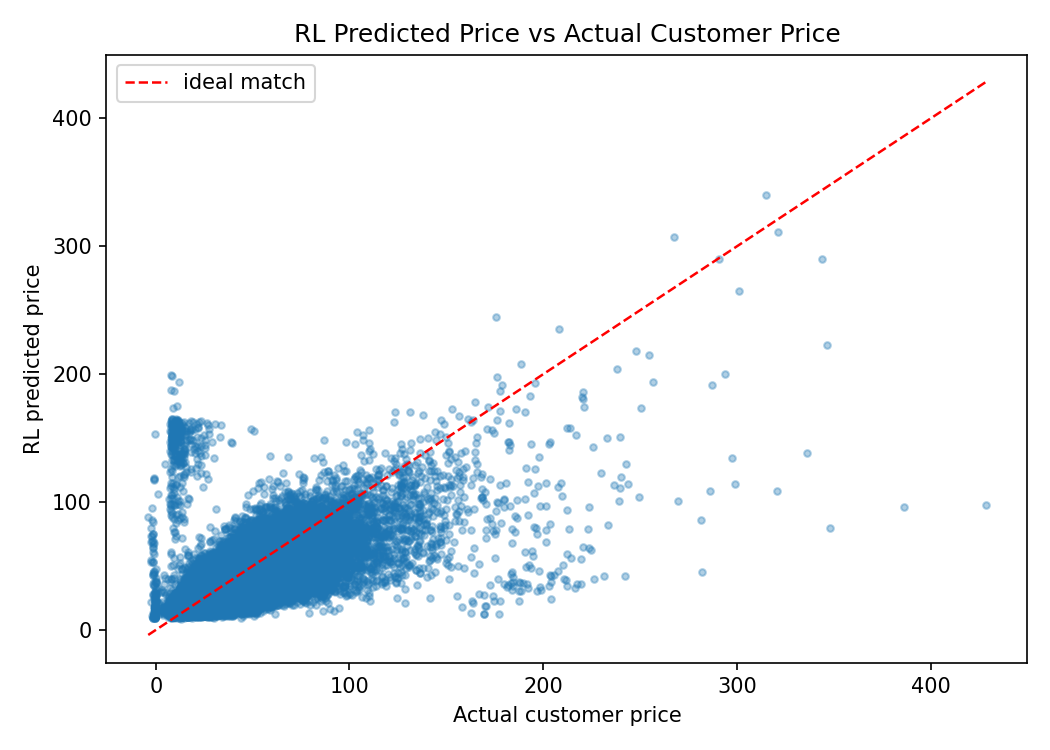
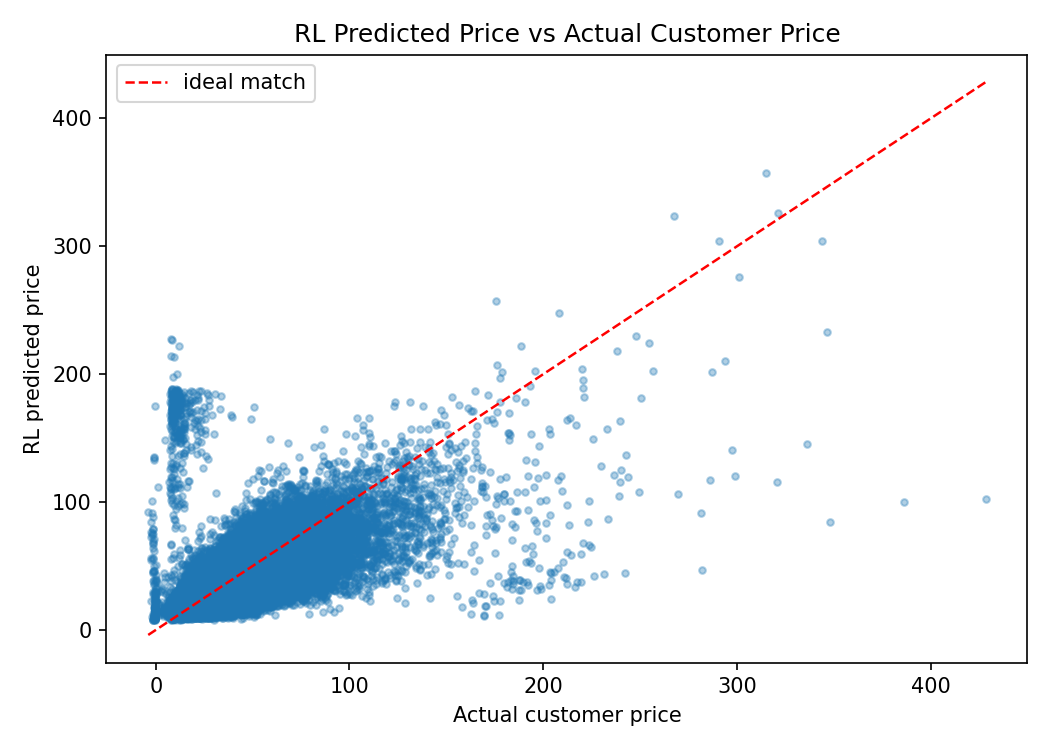
update

diff --git a/Core.py b/Core.py
@@ -417,6 +417,10 @@ class Core:
         self.profile_pool_multiplier = 2
         self.training_stable_window = 20
         self.training_stable_tol = 0.015
+        self.training_stable_trend_tol = 0.01
+        self.training_stable_min_mean = 0.15
+        self.training_stable_patience = 3
+        self.freeze_ppo_after_stabilization = True
         self.reward_convergence_window = 40
         self.reward_convergence_tol = 0.025
         self.reward_trend_tol = 0.01
@@ -716,11 +720,14 @@ class Core:
             f"train timesteps={train_timesteps} x {train_customers_per_step} rides, "
             f"eval timesteps={eval_timesteps} x {eval_customers_per_step} rides"
         )
+        self.training_logs = []
+        self.evaluation_logs = []
         
         print(">>> Training RL agent on-the-fly (early exploration prioritized)...")
         reward_history: List[float] = []
         stable_count = 0
         stability_notice_emitted = False
+        ppo_updates_frozen = False
         sampled_profile_rows: List[Dict[str, Any]] = []
         profile_limit_reached = False
 
@@ -738,7 +745,7 @@ class Core:
             rl_step = None
             if self.firm1_mode == "RL":
                 s_vec = self._build_rl_state(day_of_week=day_ctx.day_of_week, hour=hour, weather=day_ctx.weather)
-                action, s_ts, logits, val = self.firm1.agent.act(s_vec)
+                action, s_ts, logits, val = self.firm1.agent.act(s_vec, deterministic=ppo_updates_frozen)
                 self.firm1.apply_action(action, self.market)
                 rl_step = (action, s_ts, logits, val)
             elif self.firm1_mode == "heuristic":
@@ -758,11 +765,13 @@ class Core:
             reward = self._compute_rl_reward(m1, mean_gap)
             if self.firm1_mode == "RL" and rl_step is not None:
                 action, s_ts, logits, val = rl_step
-                self.firm1.agent.store(s_ts, action, float(reward), False, None, logits, val)
+                if not ppo_updates_frozen:
+                    self.firm1.agent.store(s_ts, action, float(reward), False, None, logits, val)
                 min_buf = int(max(1, self.ppo_min_buffer_for_update))
                 interval = int(max(1, self.ppo_update_interval))
                 should_update = (
-                    len(self.firm1.agent.buf) >= min_buf
+                    (not ppo_updates_frozen)
+                    and len(self.firm1.agent.buf) >= min_buf
                     and (((t + 1) % interval) == 0 or (t + 1) == int(train_timesteps))
                 )
                 ppo_metrics = (
@@ -774,17 +783,41 @@ class Core:
                 ppo_metrics = {"loss": 0.0}
                 
             reward_history.append(float(reward))
+            reward_std = 1.0
+            reward_delta = 1.0
+            reward_mean = float(reward)
             if len(reward_history) >= self.training_stable_window:
                 recent = reward_history[-self.training_stable_window:]
-                if float(np.std(recent)) <= self.training_stable_tol:
+                reward_std = float(np.std(recent))
+                reward_delta = float(abs(recent[-1] - recent[0]) / max(1, len(recent) - 1))
+                reward_mean = float(np.mean(recent))
+                stable_now = (
+                    reward_std <= self.training_stable_tol
+                    and reward_delta <= self.training_stable_trend_tol
+                    and reward_mean >= self.training_stable_min_mean
+                )
+                if stable_now:
                     stable_count += 1
                 else:
                     stable_count = 0
+            
+            if self.firm1_mode == "RL":
+                progress = float((t + 1) / max(1, train_timesteps))
+                reward_converged = stable_count >= self.training_stable_patience
+                self.firm1.configure_training_controls(
+                    progress=progress,
+                    reward_converged=reward_converged,
+                    reward_std=float(reward_std),
+                )
                     
             self.training_logs.append({
                 "batch": t,
                 "avg_reward": float(reward),
                 "loss": float(ppo_metrics.get("loss", 0.0)),
+                "reward_window_std": float(reward_std),
+                "reward_window_delta": float(reward_delta),
+                "reward_window_mean": float(reward_mean),
+                "reward_converged": bool(stable_count >= self.training_stable_patience),
             })
             
             if (t + 1) % max(1, train_timesteps // 10) == 0:
@@ -792,13 +825,21 @@ class Core:
                 moving_avg = float(np.mean(window)) if window else 0.0
                 print(f"  [train {t+1}/{train_timesteps}] reward={float(reward):.3f} moving_avg20={moving_avg:.3f}")
 
-            if stable_count >= 3:
+            if stable_count >= self.training_stable_patience:
                 if not stability_notice_emitted:
                     print(
-                        f">>> Reward stabilized at timestep {t+1}; "
-                        "continuing training to complete all requested timesteps."
+                        f">>> Reward stabilized at timestep {t+1} "
+                        f"(std={reward_std:.4f}, delta/day={reward_delta:.4f}, mean={reward_mean:.3f}); "
+                        "switching to deterministic actions and freezing PPO updates."
                     )
                     stability_notice_emitted = True
+                if (
+                    self.firm1_mode == "RL"
+                    and self.freeze_ppo_after_stabilization
+                    and not ppo_updates_frozen
+                ):
+                    ppo_updates_frozen = True
+                    self.firm1.agent.buf.clear()
 
             self.last_share = float(m1.share)
             self.last_revpr = float(m1.rev_per_request)
@@ -819,7 +860,7 @@ class Core:
             base = self.market.curr_market
             if self.firm1_mode == "RL":
                 s_vec = self._build_rl_state(day_of_week=day_ctx.day_of_week, hour=hour, weather=day_ctx.weather)
-                action, *_ = self.firm1.agent.act(s_vec)
+                action, *_ = self.firm1.agent.act(s_vec, deterministic=True)
                 self.firm1.apply_action(action, self.market)
             elif self.firm1_mode == "heuristic":
                 self.firm1.act(city_base=base.base_fare, city_pmin=base.per_minute, hour=hour, weather=day_ctx.weather)
@@ -842,6 +883,7 @@ class Core:
                 "heuristic_share": float(m2.share),
                 "rl_revenue": float(m1.rev_per_request),
                 "avg_reward": float(eval_reward),
+                "reward": float(eval_reward),
             })
             self.last_share = float(m1.share)
             self.last_revpr = float(m1.rev_per_request)
@@ -1185,7 +1227,7 @@ class Core:
             print("  training logs unavailable")
 
         if self.evaluation_logs:
-            ev = np.array([float(r["reward"]) for r in self.evaluation_logs], dtype=float)
+            ev = np.array([_extract_reward(r) for r in self.evaluation_logs], dtype=float)
             q = max(1, len(ev) // 4)
             early = float(np.mean(ev[:q]))
             late = float(np.mean(ev[-q:]))
@@ -1702,6 +1744,14 @@ def _write_distribution_csv(path: str, rows: List[Dict[str, Any]]) -> None:
         w.writeheader()
         w.writerows(out_rows)
 
+def _extract_reward(log_row: Dict[str, Any]) -> float:
+    """Backwards-compatible reward accessor for historical log schemas."""
+    if "reward" in log_row:
+        return float(log_row["reward"])
+    if "avg_reward" in log_row:
+        return float(log_row["avg_reward"])
+    raise KeyError("reward")
+
 
 def _plot_reports(
     rows: List[Dict[str, Any]],
@@ -1846,7 +1896,7 @@ def _plot_reports(
     # 5) evaluation trajectory (run_experiment)
     if evaluation_logs:
         xs = [int(r["day"]) for r in evaluation_logs]
-        ys = [float(r["reward"]) for r in evaluation_logs]
+        ys = [_extract_reward(r) for r in evaluation_logs]
         plt.figure(figsize=(9, 4))
         plt.plot(xs, ys)
         plt.title("Evaluation Reward Trajectory")

diff --git a/WPOAgent.py b/WPOAgent.py
@@ -98,7 +98,7 @@ class PPOAgent:
 
 
     @torch.no_grad()
-    def act(self, s_np: np.ndarray) -> Tuple[int, torch.Tensor, torch.Tensor, torch.Tensor]:
+    def act(self, s_np: np.ndarray, deterministic: bool = False) -> Tuple[int, torch.Tensor, torch.Tensor, torch.Tensor]:
         s = torch.tensor(s_np, dtype=torch.float32, device=self.device).unsqueeze(0)
         s = torch.nan_to_num(s, nan=0.0, posinf=1e3, neginf=-1e3)
         expected_dim = self.net.trunk[0].in_features
@@ -110,7 +110,10 @@ class PPOAgent:
         if not torch.isfinite(logits).all():
             logits = torch.zeros_like(logits)
         dist = torch.distributions.Categorical(logits=logits)
-        a = dist.sample()
+        if deterministic:
+            a = torch.argmax(logits, dim=-1)
+        else:
+            a = dist.sample()
         logp = dist.log_prob(a)
         return int(a.item()), s.squeeze(0), logp.squeeze(0), value.squeeze(0)
     
